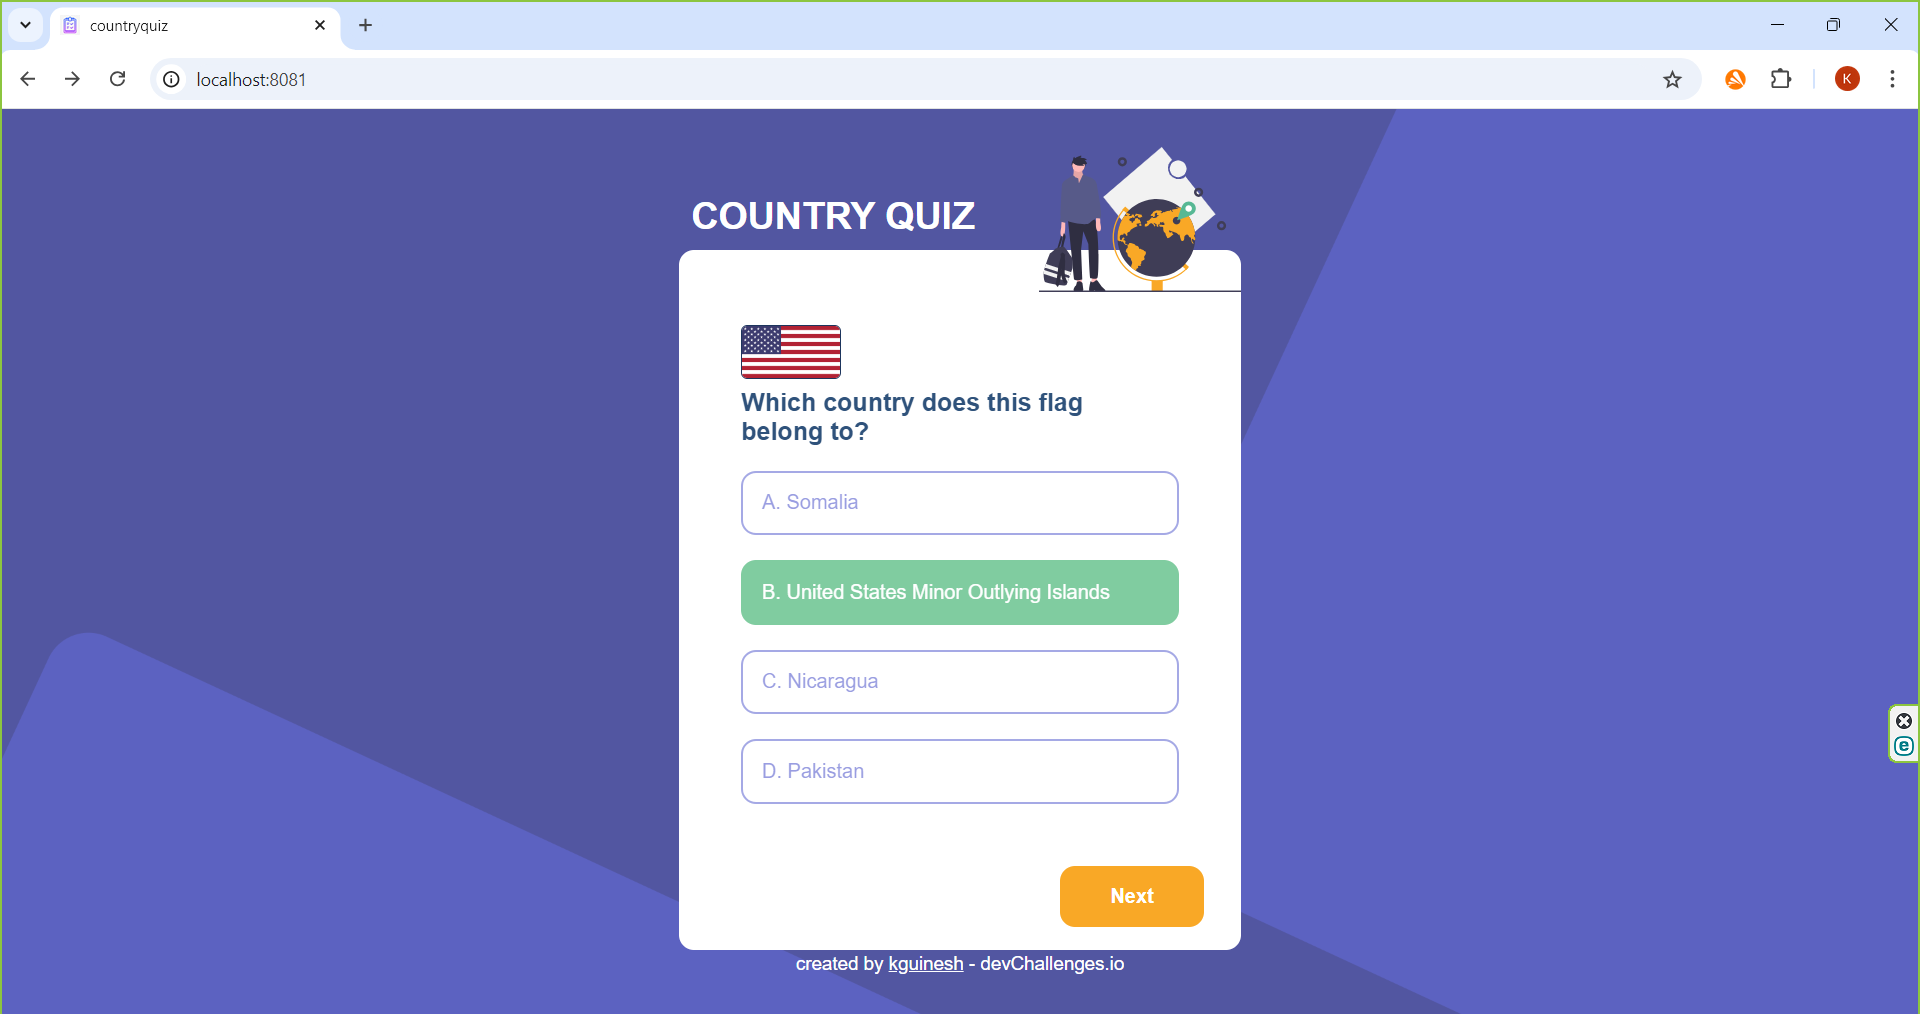
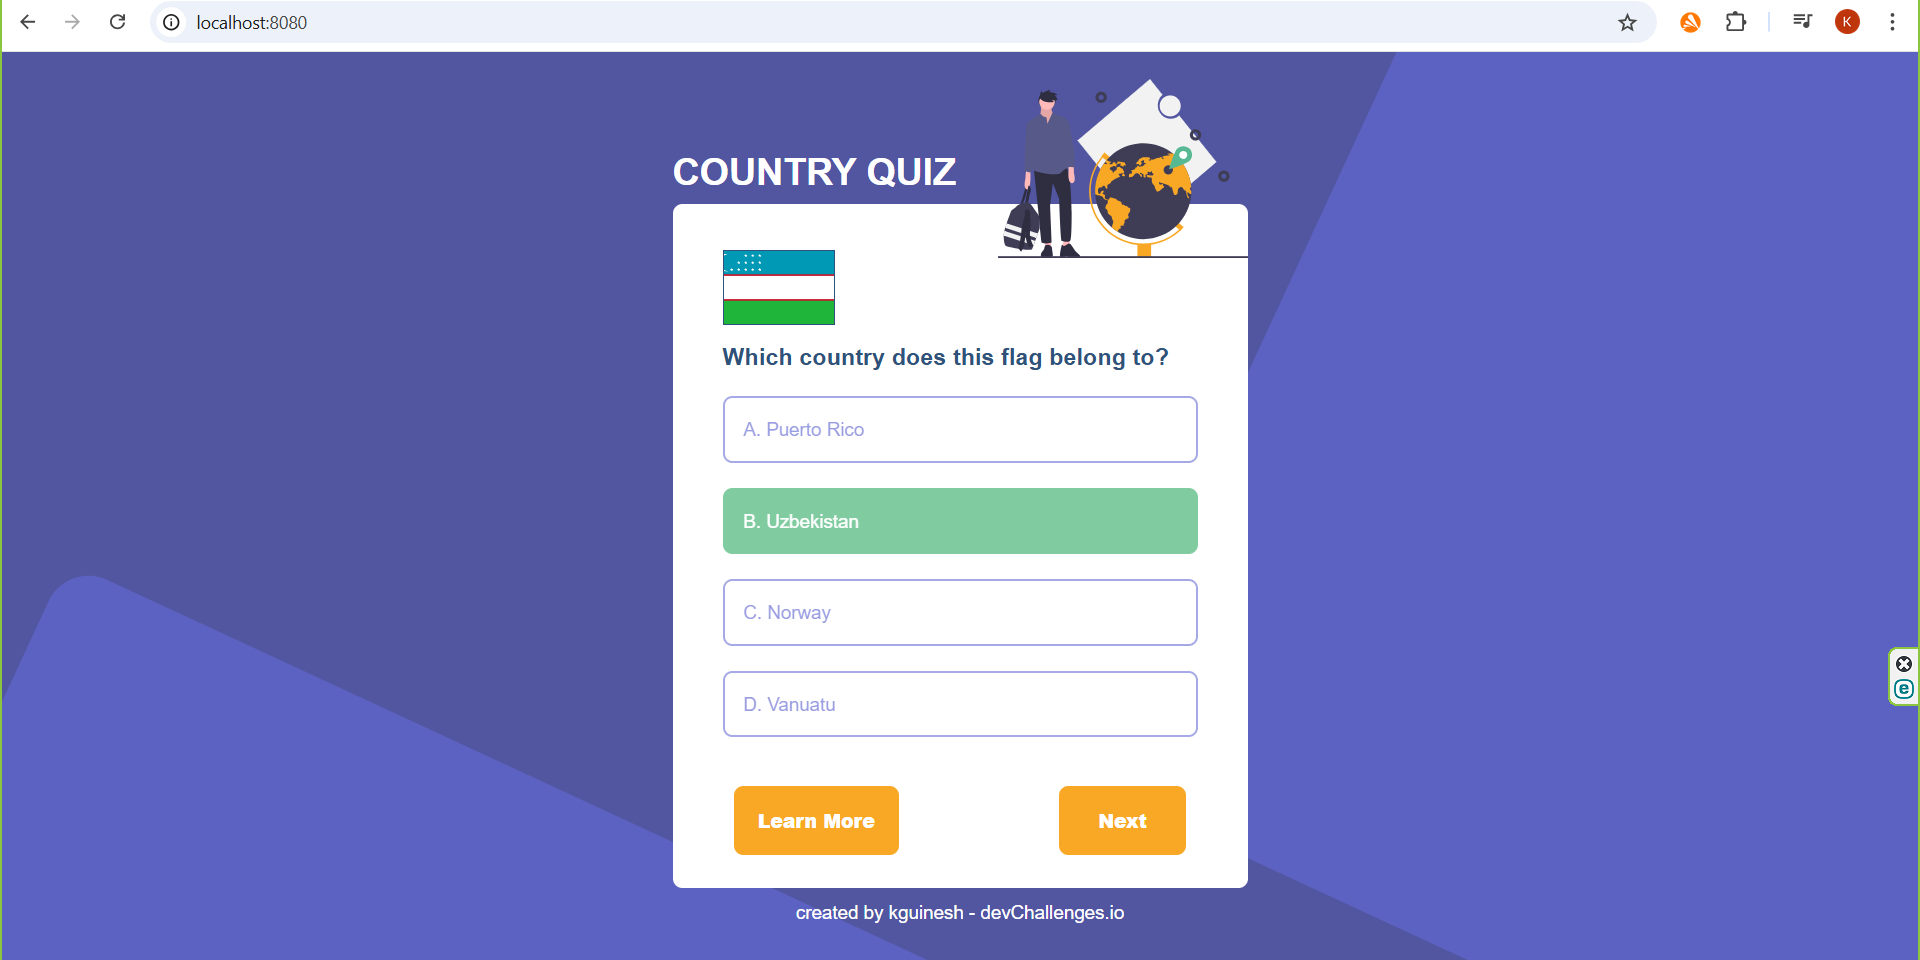
Updated README.md

diff --git a/README.md b/README.md
@@ -12,6 +12,7 @@
 
 - [Overview](#overview)
   - [Built With](#built-with)
+  - [How to Use](#how-to-use)
 
 ## Overview
 ![alt text](https://github.com/Kguinesh/countryquiz/blob/main/src/assets/Screenshot.png)
@@ -20,4 +21,31 @@ Build this project was a little challenging but gratifying at the end, and it wa
 
 ### Built With
 
-- [VueJs]
+- [VueJs](https://vuejs.org/)
+- [Tailwindcss](https://tailwindcss.com/)
+
+### How to Use
+The country quiz app is a simple and interactive application where users select the correct answer from a set of available options. Each question is accompanied by options to choose from, with features like a "Next" button for advancing to the following question upon selecting the correct answer, and a "Result" button to view the final score. Additionally, users can access limited country details through a "Learn More" button.
+
+To clone and run this application, you'll need [Git](https://git) and [Node.js](https://nodejs.org/en) (which comes with [npm](https://www.npmjs.com/)) installed on your computer. 
+From your command line:
+
+# Clone this repository
+   <br />For example, run this command in your terminal/command prompt:
+   ```
+   git clone https://github.com/<your-github-username>/countryquiz.git
+   ```
+   **Replace \<your-github-username> with your username**
+
+# Install all dependencies(You need Node installed in your machine)
+  <br />Run the following command:
+  ```
+  npm install 
+  # or 
+  yarn install  
+  ```
+
+# Run the app
+  ```
+  npm start  
+  ```
